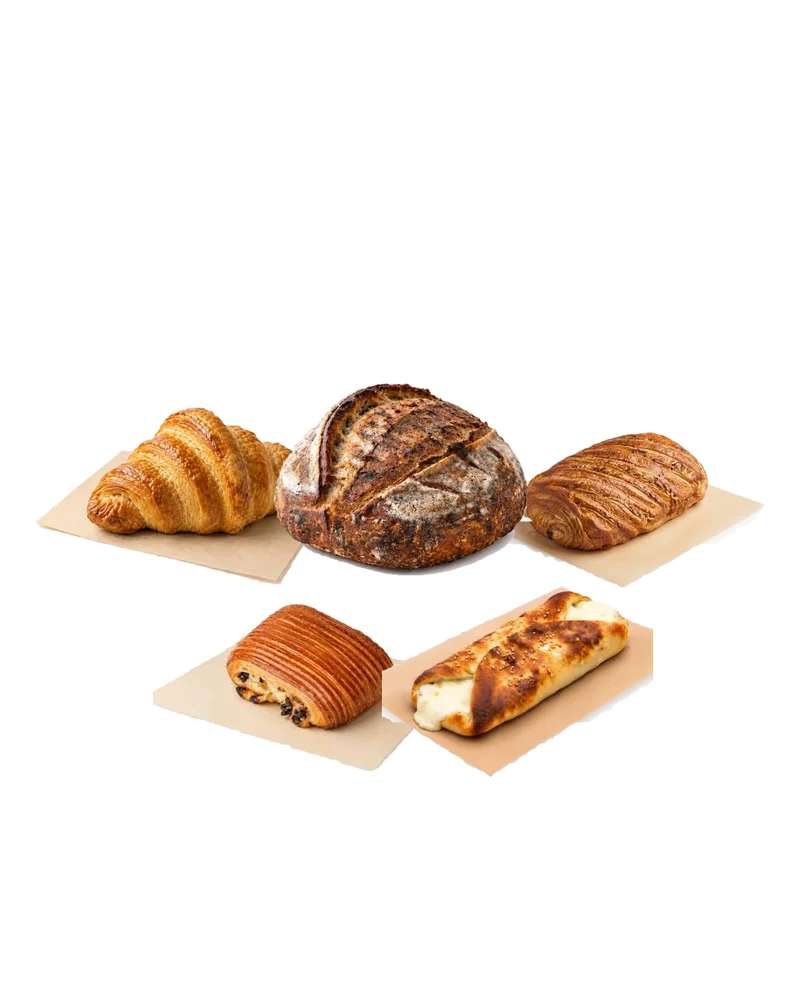
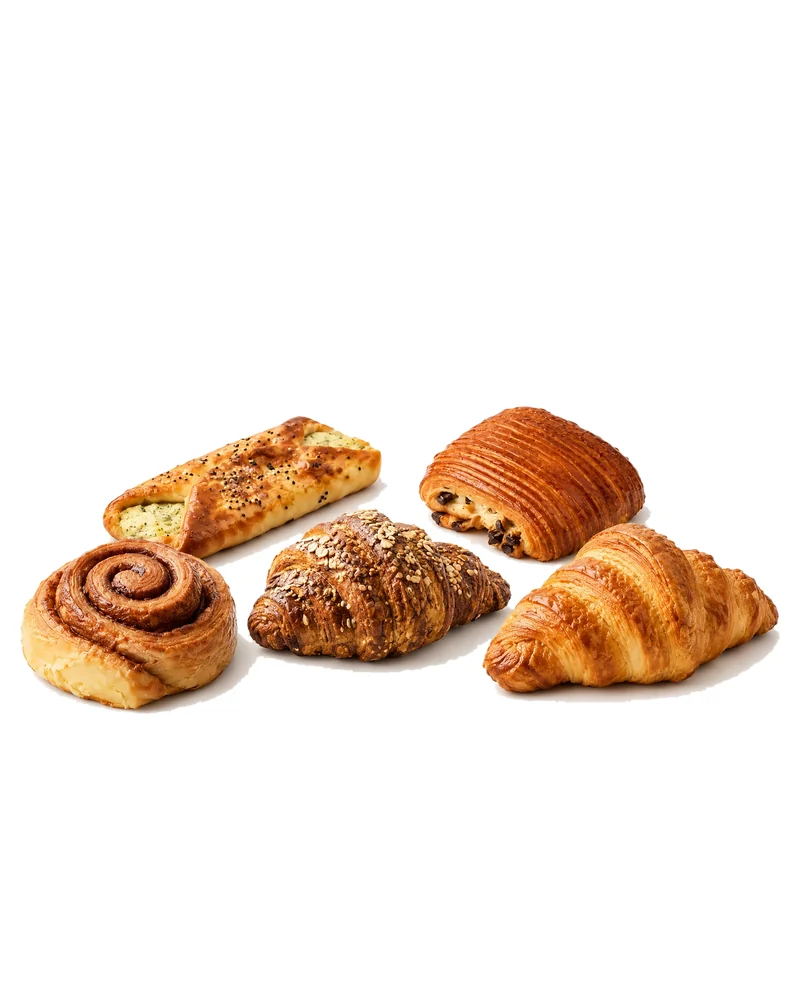
Fresh bakery cover from the owner's five-pastry photo
Fatayer, pain au chocolat, cinnamon roll, seeded croissant and croissant cut
out as one group (edge and enclosed floor shadows removed); croissant icon.
Card and icon keep their paths.

Claude-Session: https://claude.ai/code/session_01HaM8F3VJv6dgB34RjCmCBJ

Changed region(s): [[0.0, 0.372, 0.9688, 0.775]]

diff --git a/abuelfadl-store/src/features/products/CategoryCover.tsx b/abuelfadl-store/src/features/products/CategoryCover.tsx
@@ -217,21 +217,18 @@ function SyrianCover() {
 }
 
 /**
- * "fresh" cover (fresh bakery): five items from the owner's photos, each on its baking paper
- * (public/covers/fresh/*.webp) — croissant, country loaf and a large pain au chocolat at the back, pain au chocolat and
- * a cheese fatayer in front. They rise in one after another; positions are the `.cvfb-*` rules.
+ * "fresh" cover (fresh bakery): the owner's photo of five pastries — cheese fatayer, pain au chocolat, cinnamon roll,
+ * seeded croissant and croissant — cut out as one piece (public/covers/fresh/group.webp) since they sit close together.
+ * It rises in with a contact shadow like the deli cover; position is the `.cvfr-group` rule.
  */
-const FRESH_PIECES = ["croissant", "bigpain", "loaf", "painchoc", "fatayer"] as const;
-
 function FreshCover() {
   return (
-    <div className="cvd" role="img" aria-label="مخبوزات فريش: كرواسون وعيش بلدي مخمّر وبان أو شوكولا وفطيرة جبنة">
+    <div className="cvd" role="img" aria-label="مخبوزات فريش: فطيرة جبنة وبان أو شوكولا وسينابون وكرواسون بالحبوب وكرواسون">
       <div className="cvd-s" aria-hidden="true">
-        {FRESH_PIECES.map((name) => (
-          <span key={name} className={`cvd-p cvfb-${name}`}>
-            <img src={`/covers/fresh/${name}.webp`} alt="" decoding="async" />
-          </span>
-        ))}
+        <span className="cvd-p cvfr-group">
+          <i className="sh" />
+          <img src="/covers/fresh/group.webp" alt="" decoding="async" />
+        </span>
       </div>
     </div>
   );

diff --git a/abuelfadl-store/src/styles/24-category-covers.css b/abuelfadl-store/src/styles/24-category-covers.css
@@ -107,9 +107,5 @@
 .cvsy-blackseed{left:24.69%;top:59.40%;width:25.62%;z-index:3;--dl:0.4s}
 .cvsy-pistachio{left:50.81%;top:59.00%;width:27.19%;z-index:3;--dl:0.52s}
 
-/* fresh bakery cover (FreshCover): five items on baking paper, three at the back and two in front */
-.cvfb-croissant{left:11.88%;top:29.50%;width:32.50%;z-index:1;--dl:0.1s}
-.cvfb-bigpain{left:56.25%;top:33.60%;width:31.25%;z-index:1;--dl:0.34s}
-.cvfb-loaf{left:36.56%;top:25.50%;width:26.88%;z-index:2;--dl:0.22s}
-.cvfb-painchoc{left:24.06%;top:62.10%;width:29.38%;z-index:3;--dl:0.5s}
-.cvfb-fatayer{left:47.81%;top:59.20%;width:28.12%;z-index:3;--dl:0.62s}
+/* fresh bakery cover (FreshCover): five pastries as one group (they sit close together in the photo) */
+.cvfr-group{left:6.00%;top:30.00%;width:88.00%;z-index:1;--dl:0.1s}
